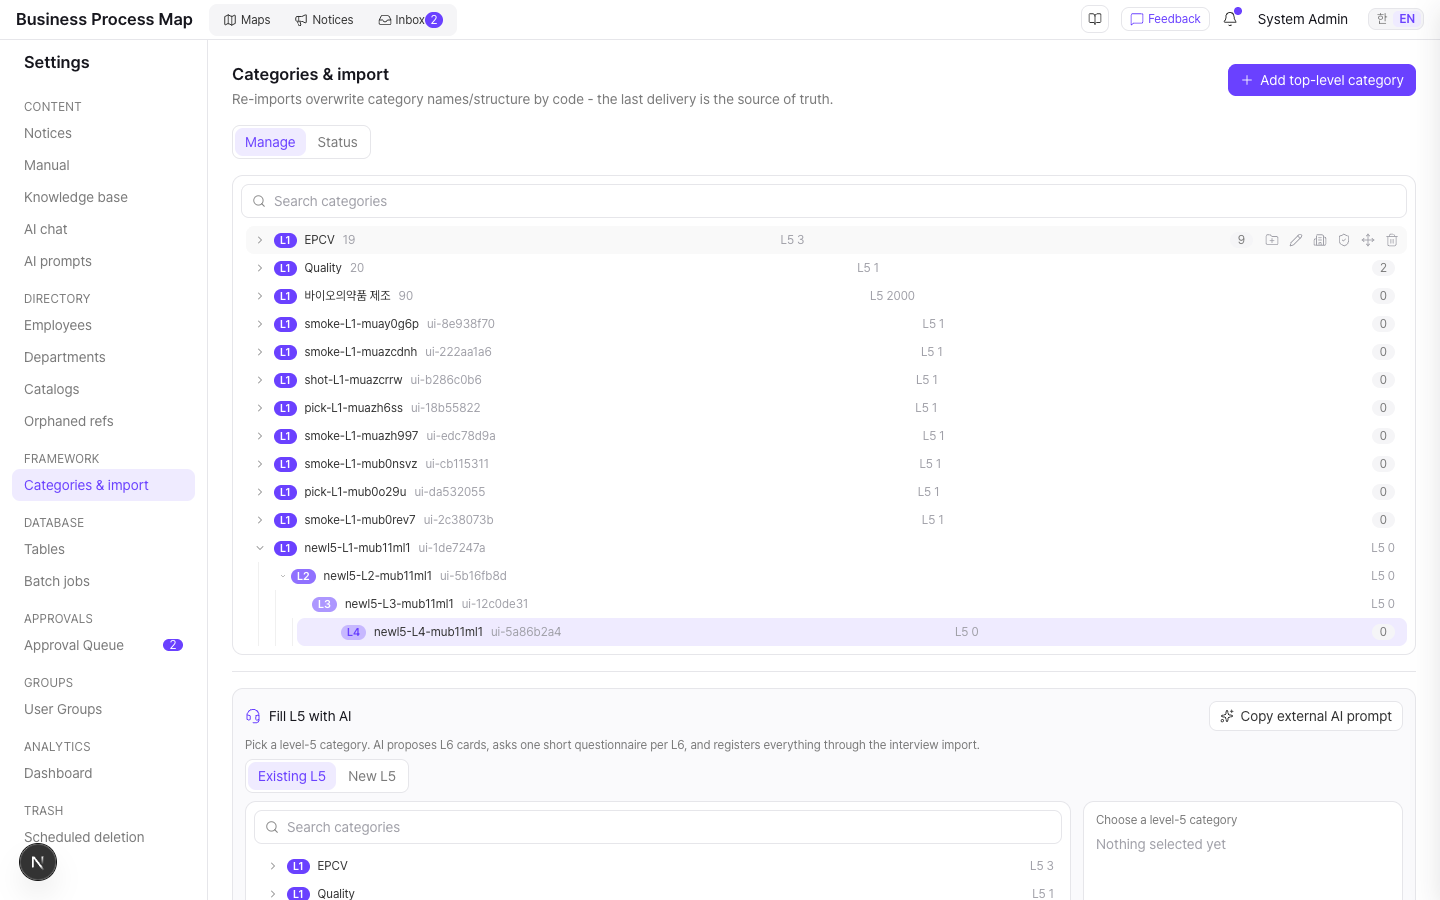
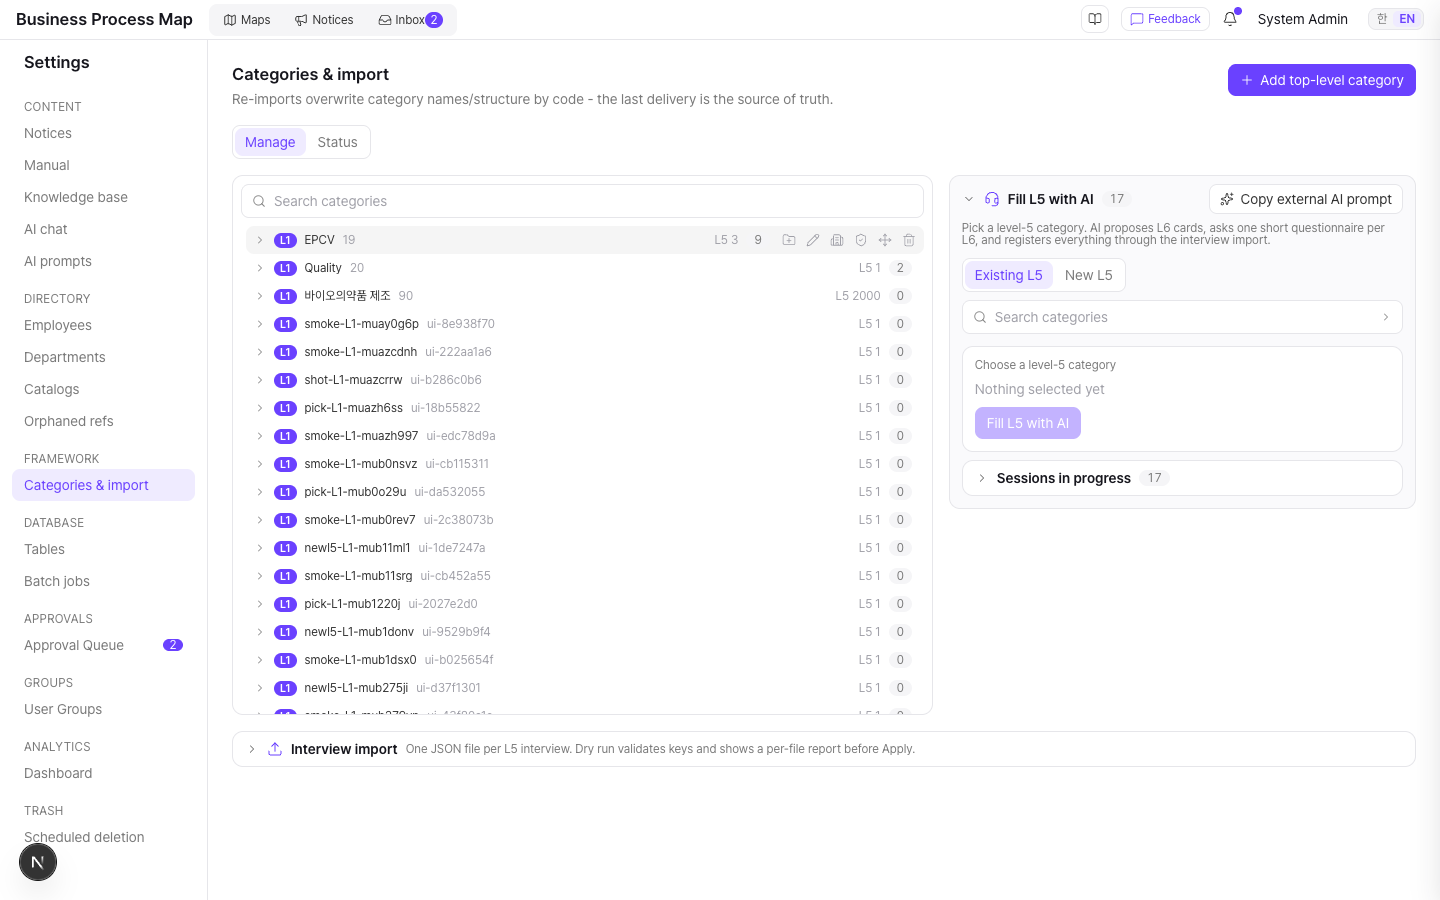
fix(admin): campaign picker drops down from the search box, shorter sections — 캠페인 피커를 검색 상자 드롭다운으로, 섹션 높이 축소
The Fill L5 with AI section grew by the full height of the inline
cascade tree. FrameworkCascadePicker gains variant="dropdown": only the
search box stays in flow and the tree opens as a body portal panel
(fixed, z 1350) on click or focus, closing on pick, Escape or outside
click. Section caps drop (consult 480, import 720, tree 60vh). The
interview import section is full width whether collapsed or open; the
previously shared entry screenshot predated that move. Adds a layout
capture script and refreshes the entry screenshots.

Claude-Session: https://claude.ai/code/session_01Cp6z7UQxkS4JyPnK2oo8Q2

diff --git a/frontend/src/components/framework-cascade-picker.tsx b/frontend/src/components/framework-cascade-picker.tsx
@@ -3,9 +3,12 @@
 // 업무 체계 계단식 피커 — 탐색 모달(framework-explorer-modal)의 계단식 트리 규칙(lazy 트리 엔진·가이드 라인·레벨 필·
 // 조상 호버 강조·accordion 모션)을 그대로 쓰되 "이동" 대신 "선택"을 한다. 검색 히트 클릭 = 체인 펼침 + 선택.
 // AI L5 캠페인 진입(기존 L5 고르기 / 새 L5의 부모 L4 고르기)이 쓴다.
+// variant="dropdown"이면 검색 상자만 자리를 차지하고 트리는 상자를 누를 때 body 포털(fixed, z 1350)로 내려온다.
+// 관리자 아코디언 섹션(overflow hidden + 내부 스크롤) 안에서도 잘리지 않게 SearchSelect와 같은 포털 규칙.
 
 import { Check, ChevronRight, Loader2, Search, X } from "lucide-react";
-import { useEffect, useMemo, useState, type ReactNode } from "react";
+import { useEffect, useMemo, useRef, useState, type ReactNode } from "react";
+import { createPortal } from "react-dom";
 
 import { getCategoryChain, listAllCategories, listCategoryNodes, type CategoryLite, type CategoryNode } from "@/lib/api";
 import {
@@ -31,18 +34,60 @@ export interface FrameworkCascadePickerProps {
   selectableLevels?: number[];
   // 펼침 상한(기본 5). 부모 고르기 모드는 4까지만 내려간다
   maxLevel?: number;
-  height?: number;  // px
+  height?: number;  // px — inline은 상자 높이, dropdown은 내려오는 패널 높이 상한
+  // inline(기본): 트리가 항상 보이는 상자. dropdown: 검색 상자만 두고 트리는 포털 패널로
+  variant?: "inline" | "dropdown";
   dataIdPrefix: string;
 }
 
+const DROPDOWN_GAP = 4;
+const DROPDOWN_MARGIN = 8;
+
 export function FrameworkCascadePicker({
-  selectedId, onSelect, selectableLevels = [5], maxLevel = 5, height = 320, dataIdPrefix,
+  selectedId, onSelect, selectableLevels = [5], maxLevel = 5, height = 320, variant = "inline", dataIdPrefix,
 }: FrameworkCascadePickerProps) {
   const { t } = useI18n();
   const [tree, setTree] = useState<FrameworkTreeState>(createInitialState());
   const { closingKeys, getSectionClass, openSection, closeSection } = useSectionMotion<number>();
   const [initFailed, setInitFailed] = useState(false);
   const selectable = useMemo(() => new Set(selectableLevels), [selectableLevels]);
+  const isDropdown = variant === "dropdown";
+
+  // ── 드롭다운 — 검색 상자 rect 기준 fixed 패널. 열려 있는 동안 스크롤·리사이즈에 재계산(SearchSelect와 동일) ──
+  const [open, setOpen] = useState(false);
+  const boxRef = useRef<HTMLLabelElement>(null);
+  const [panelPos, setPanelPos] = useState<{ left: number; top: number; width: number; height: number } | null>(null);
+  useEffect(() => {
+    if (!isDropdown || !open) return;
+    const updatePos = () => {
+      const box = boxRef.current;
+      if (!box) return;
+      const rect = box.getBoundingClientRect();
+      const top = rect.bottom + DROPDOWN_GAP;
+      // 아래 공간이 모자라면 패널을 줄인다 — 위로 뒤집지 않는다(트리는 위→아래로 읽는다)
+      const maxBelow = window.innerHeight - DROPDOWN_MARGIN - top;
+      setPanelPos({ left: rect.left, top, width: rect.width, height: Math.max(160, Math.min(height, maxBelow)) });
+    };
+    updatePos();
+    window.addEventListener("resize", updatePos);
+    window.addEventListener("scroll", updatePos, true);
+    return () => {
+      window.removeEventListener("resize", updatePos);
+      window.removeEventListener("scroll", updatePos, true);
+    };
+  }, [isDropdown, open, height]);
+  useEffect(() => {
+    if (!isDropdown || !open) return;
+    const onKey = (e: KeyboardEvent) => { if (e.key === "Escape") setOpen(false); };
+    window.addEventListener("keydown", onKey);
+    return () => window.removeEventListener("keydown", onKey);
+  }, [isDropdown, open]);
+
+  // 고르면 드롭다운은 닫힌다(선택 해제는 열어 둔다) — 선택 결과는 호출부 요약 카드가 보여준다
+  function pick(node: CategoryNode | null) {
+    onSelect(node);
+    if (isDropdown && node !== null) setOpen(false);
+  }
 
   // 루트 + (초기 선택이 있으면) 그 체인을 미리 펼친다 — 탐색 모달 init과 같은 순서
   useEffect(() => {
@@ -100,7 +145,7 @@ export function FrameworkCascadePicker({
     });
     ancestorIds.forEach((id) => openSection(id, false));
     setQuery("");
-    onSelect(self);
+    pick(self);
   }
 
   // ── 검색 — 전 카테고리 경량 목록을 클라이언트에서 거른다(탐색 모달과 동일) ──
@@ -161,7 +206,7 @@ export function FrameworkCascadePicker({
             data-id={`${dataIdPrefix}-${canPick ? "pick" : "open"}-${node.id}`}
             aria-pressed={canPick ? isSelected : undefined}
             className={`flex min-w-0 flex-1 items-center gap-2 py-1 pr-2 text-left ${canPick ? "" : "cursor-default"}`}
-            onClick={() => (canPick ? onSelect(isSelected ? null : node) : canExpand && handleToggle(node.id))}
+            onClick={() => (canPick ? pick(isSelected ? null : node) : canExpand && handleToggle(node.id))}
           >
             <LevelPill level={node.level} size="sm" />
             <span
@@ -190,23 +235,31 @@ export function FrameworkCascadePicker({
   };
 
   const roots = tree.childrenByParent.get(ROOT) ?? [];
-  return (
-    <div className="flex flex-col overflow-hidden rounded-md border border-hairline bg-surface" style={{ height }} data-id={`${dataIdPrefix}`}>
-      <label className="m-2 flex min-w-0 items-center gap-2 rounded-sm border border-hairline bg-surface px-2.5 py-1.5 text-caption text-ink">
-        <Search size={14} strokeWidth={1.5} className="shrink-0 text-ink-tertiary" />
-        <input
-          data-id={`${dataIdPrefix}-search`}
-          value={query}
-          onChange={(e) => setQuery(e.target.value)}
-          placeholder={t("framework.explorer.search")}
-          className="min-w-0 flex-1 bg-transparent outline-none placeholder:text-ink-muted"
-        />
-        {query !== "" && (
-          <button type="button" aria-label="clear" className="text-ink-muted hover:text-ink" onClick={() => setQuery("")}>
-            <X size={12} strokeWidth={1.5} />
-          </button>
-        )}
-      </label>
+  const searchBox = (
+    <label
+      ref={boxRef}
+      className={`flex min-w-0 items-center gap-2 rounded-sm border bg-surface px-2.5 py-1.5 text-caption text-ink ${isDropdown ? "" : "m-2"} ${isDropdown && open ? "border-accent" : "border-hairline"}`}
+    >
+      <Search size={14} strokeWidth={1.5} className="shrink-0 text-ink-tertiary" />
+      <input
+        data-id={`${dataIdPrefix}-search`}
+        value={query}
+        onChange={(e) => { setQuery(e.target.value); if (isDropdown) setOpen(true); }}
+        onFocus={() => { if (isDropdown) setOpen(true); }}
+        onClick={() => { if (isDropdown) setOpen(true); }}
+        placeholder={t("framework.explorer.search")}
+        className="min-w-0 flex-1 bg-transparent outline-none placeholder:text-ink-muted"
+      />
+      {query !== "" ? (
+        <button type="button" aria-label="clear" className="text-ink-muted hover:text-ink" onClick={() => setQuery("")}>
+          <X size={12} strokeWidth={1.5} />
+        </button>
+      ) : isDropdown ? (
+        <ChevronRight size={12} strokeWidth={1.5} className={`shrink-0 text-ink-tertiary motion-safe:transition-transform motion-safe:duration-150 ease-smooth ${open ? "rotate-90" : ""}`} />
+      ) : null}
+    </label>
+  );
+  const body = (
       <div className="relative flex min-h-0 flex-1">
         {hits !== null ? (
           <ul data-id={`${dataIdPrefix}-results`} className="flex flex-1 flex-col gap-0.5 overflow-y-auto px-2 pb-2">
@@ -244,6 +297,32 @@ export function FrameworkCascadePicker({
           </div>
         )}
       </div>
+  );
+  if (isDropdown) {
+    return (
+      <div className="flex flex-col" data-id={`${dataIdPrefix}`} data-open={open}>
+        {searchBox}
+        {open && panelPos && createPortal(
+          <>
+            {/* 바깥 클릭 닫기 — 상자 자체도 덮이지만 포커스는 입력에 남아 타이핑은 계속된다 */}
+            <div className="fixed inset-0 z-[1340]" onClick={() => setOpen(false)} />
+            <div
+              data-id={`${dataIdPrefix}-panel`}
+              className="fixed z-[1350] flex flex-col overflow-hidden rounded-md border border-hairline bg-surface pt-2 shadow-lg"
+              style={{ left: panelPos.left, top: panelPos.top, width: panelPos.width, height: panelPos.height }}
+            >
+              {body}
+            </div>
+          </>,
+          document.body,
+        )}
+      </div>
+    );
+  }
+  return (
+    <div className="flex flex-col overflow-hidden rounded-md border border-hairline bg-surface" style={{ height }} data-id={`${dataIdPrefix}`}>
+      {searchBox}
+      {body}
     </div>
   );
 }

diff --git a/frontend/src/components/admin/framework-panel.tsx b/frontend/src/components/admin/framework-panel.tsx
@@ -734,8 +734,8 @@ export function FrameworkPanel({ onToast, scopeRootIds }: FrameworkPanelProps) {
         <>
       {/* 복수열 — 좌: 카테고리 트리, 우: 아코디언 섹션(캠페인 진입·진행 중 세션·인터뷰 임포트). 리포트는 그리드 아래 전폭 */}
       <div className="grid grid-cols-1 gap-4 xl:grid-cols-[minmax(0,3fr)_minmax(380px,2fr)]" data-id="framework-manage-grid">
-      {/* 트리도 상한 높이 안에서 내부 스크롤 — L1이 수십 개여도 페이지가 늘어나지 않는다 */}
-      <div data-id="framework-admin-tree" className="fw-tree scroll-soft max-h-[70vh] self-start overflow-y-auto rounded-md border border-hairline p-2">
+      {/* 트리도 상한 높이 안에서 내부 스크롤 — L1이 수십 개여도 페이지가 늘어나지 않는다(60vh, 사용자 지적 2026-09-22) */}
+      <div data-id="framework-admin-tree" className="fw-tree scroll-soft max-h-[60vh] self-start overflow-y-auto rounded-md border border-hairline p-2">
         {!scopeRootIds && (
           <label className="mb-2 flex min-w-0 items-center gap-2 rounded-sm border border-hairline bg-surface px-2.5 py-1.5 text-caption text-ink">
             <Search size={14} strokeWidth={1.5} className="shrink-0 text-ink-tertiary" />
@@ -809,7 +809,7 @@ export function FrameworkPanel({ onToast, scopeRootIds }: FrameworkPanelProps) {
           badge={activeSessions.length > 0 ? activeSessions.length : undefined}
           actions={<InterviewJsonPromptButton target={consultTarget} />}
           tone="pearl"
-          maxHeight={640}
+          maxHeight={480}
         >
         <div className="flex flex-col gap-2" data-id="fw-consult-entry">
           {/* 모드 세그먼트 — 기존 L5 고르기 / 새 L5 만들기(부모 L4 고르고 이름 입력). 홈 뷰 토글과 같은 스타일 */}
@@ -830,13 +830,15 @@ export function FrameworkPanel({ onToast, scopeRootIds }: FrameworkPanelProps) {
             ))}
           </div>
           <div className="flex flex-col gap-3">
+            {/* 트리는 검색 상자를 누를 때 드롭다운으로 — 섹션이 트리 높이만큼 길어지지 않는다(사용자 지시 2026-09-22) */}
             <FrameworkCascadePicker
               key={consultMode}
               selectedId={consultPick?.id ?? null}
               onSelect={setConsultPick}
               selectableLevels={consultMode === "existing" ? [5] : [4]}
               maxLevel={consultMode === "existing" ? 5 : 4}
-              height={280}
+              variant="dropdown"
+              height={360}
               dataIdPrefix="fw-consult-picker"
             />
             <div className="flex flex-col gap-2 rounded-md border border-hairline bg-surface p-3" data-id="fw-consult-pick-summary">
@@ -903,7 +905,7 @@ export function FrameworkPanel({ onToast, scopeRootIds }: FrameworkPanelProps) {
           hint={t("framework.interviewImportHint")}
           icon={<Upload size={16} strokeWidth={1.5} />}
           badge={interviewFiles.length > 0 ? interviewFiles.length : undefined}
-          maxHeight={900}
+          maxHeight={720}
         >
 
         <input

diff --git a/docs/manual/admin-manual-en.md b/docs/manual/admin-manual-en.md
@@ -347,7 +347,7 @@ Upload the consultant-delivered L5 interview result JSON files (multiple files a
 
 ### Fill an L5 with AI
 
-The entry card above the interview import card (sysadmin only) fills an L5 through a conversation with AI instead of a document. The card has two modes. **Existing L5**: pick a level-5 category in the cascading tree (same UI as the hierarchy explorer, with search) and press **Fill L5 with AI**. **New L5**: pick the L4 that will be the parent, type the new L5 name, and press **Create L5 and start**; the category is created and the campaign session opens right away. The category management tree above uses the same cascading UI now (level pills, guide lines, search to jump to a row).
+The [Fill L5 with AI] section to the right of the category tree (sysadmin only, collapsed by default) fills an L5 through a conversation with AI instead of a document. The section has two modes. **Existing L5**: click the search box, pick a level-5 category in the cascading tree that drops down (same UI as the hierarchy explorer, with search) and press **Fill L5 with AI**. The tree closes once you pick and the summary card below keeps the selection. **New L5**: pick the parent L4 the same way, type the new L5 name, and press **Create L5 and start**; the category is created and the campaign session opens right away. The category management tree above uses the same cascading UI now (level pills, guide lines, search to jump to a row).
 
 - **Four steps.** (1) **Plan**: given an optional brief and attachments, AI proposes a list of L6 task cards to register under that L5. Edit, add, or remove cards, then press **Lock**; the list is fixed and questionnaire prep starts in the background for each card. (2) **Questionnaire**: answer an AI-generated, mostly multiple-choice questionnaire for each L6 card. Every question must be answered before you can submit (a blank free-text answer is filled with the suggested value automatically), and submitting immediately draws that card's flow in the background while the next questionnaire is prepared. A submitted card cannot be reopened. (3) **Connections**: once every L6 is drawn, AI proposes the flow between L6s (start point and connectors). The large preview on the left is the L5 linkage canvas; in the right panel you can **Preview** each L6 card, **Edit answers and redraw** (reopens the questionnaire with the previous answers; resubmitting redraws only that card), and edit the entry point and edge table, then press **Confirm connections**. (4) **Register**: the assembled document goes through the same screen as interview import. Entering this step **runs the Dry run automatically** so the report appears right away, and **Back to connections** returns you to the previous step at any time before Apply.
 - **Brief and attachments are kept apart.** "Purpose and scope" on the left of the plan screen is text you write; attached documents are listed below it, one entry per file. Attaching alone generates nothing. Once the brief and attachments are in place, press **Propose L6 cards** and the AI reads both. A wrong file is removed with the delete button on its row, then propose again (nothing accumulates).

diff --git a/PROGRESS.md b/PROGRESS.md
@@ -5,6 +5,7 @@
 
 ## 2026-09-21 — AI 컨설턴트 L5 캠페인 (feat/ai-consultant-l5 → dev 머지)
 
+- **진입 피커 드롭다운화 + 섹션 높이 재조정(dev, 09-22):** [AI로 L5 채우기]가 트리 높이만큼 길어진다는 지적 → `FrameworkCascadePicker variant="dropdown"`(검색 상자만 자리, 트리는 상자 클릭/포커스 시 body 포털 fixed 패널 z 1350, 고르면 닫힘·Esc·바깥 클릭 닫힘, 아래 공간 부족 시 패널 축소). consult maxHeight 640→480·import 900→720·트리 70vh→60vh. [인터뷰 임포트]는 접힘/펼침 모두 그리드 아래 전폭(이전 공유 캡처가 옛 배치였음). `pw-fw-admin-layout-shot.mjs`(휴지 상태·드롭다운·임포트 펼침 3장).
 - **Categories & import 복수열+아코디언(dev):** Manage 뷰를 좌 트리 / 우 아코디언 열(`admin-section.tsx`: 헤더 건수 배지·힌트·액션 슬롯·0fr→1fr 전환·localStorage 펼침 기억)로 재구성. 우측은 [AI로 L5 채우기](배지=진행 세션 수, 안에 [진행 중 세션] 접힘 아코디언) + [인터뷰 임포트](배지=파일 수). 모든 섹션 **기본 접힘**, 본문은 `maxHeight`(consult 640·sessions 240·import 900·기본 520) 안에서 내부 스크롤(overflow-hidden), 트리도 70vh 상한 내부 스크롤. [인터뷰 임포트]는 파일 선택·dry run·리포트까지 한 섹션으로 그리드 **아래 전폭**(리포트 2단이 폭을 다 써야 읽힘).
 - **진입 카드 새 L5 모드 + 계단식 UI(dev):** 공용 `framework-cascade-picker.tsx`(탐색 모달의 계단식 규칙: lazy 트리 엔진·가이드 라인·레벨 필·조상 호버·accordion·검색 히트=체인 펼침, "이동" 대신 "선택") 신설. 진입 카드는 [기존 L5 | 새 L5] 세그먼트 — 새 L5는 L4 선택+이름 입력 → `createCategory`→세션 생성. 관리 트리도 같은 계단식 스타일(레벨 필·가이드 라인·accordion 모션·검색→체인 펼침+강조)로 재구성, 행 액션은 유지. 스모크 `pw-fw-consult.mjs` 12/12(피커 경유)·`pw-fw-consult-new-l5.mjs` 4/4.
 - **연결·등록 단계 UX(dev):** 연결 화면을 좌 L5 미리보기(전체 높이) / 우 패널(L6 카드별 미리보기·답 고쳐 다시 그리기, entry·edges 표는 카드 이름으로, 분기/루프 조건은 별도 행)로 재구성. `POST .../tasks/{id}/reopen`(drawn→ready, 설문·답 유지, 세션 plan_locked로) · `POST .../reopen-relations`(ready→linking)로 뒤로 가기. 등록 단계는 진입 즉시 dry run 자동 실행 + [연결 단계로 돌아가기].
